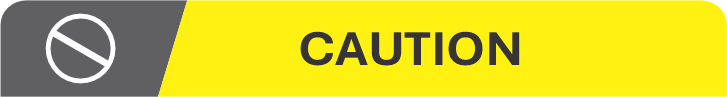
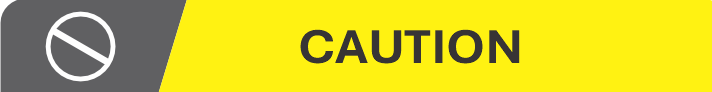
changes

diff --git a/index.html b/index.html
@@ -392,7 +392,7 @@
                   </div>
                 </div>
                 <div class="card warning">
-                  <div class="card-header">
+                  <div class="card-header card-warning">
                     <img src="images/warning.png" alt="warning" />
                   </div>
                   <div class="card-body">
@@ -457,32 +457,32 @@
         </div>
         <div class="mg-shield">
           <div class="row">
-            <div class="col">
+            <div class="col rsa-field">
               <img src="images/rsa.png" alt="rsa" />
             </div>
-            <div class="col">
+            <div class="col rsa-field">
               <img src="images/mg-shield.png" alt="MG Shield" />
             </div>
-            <div class="col">
+            <div class="col rsa-field">
               <img src="images/pulse-hub.png" alt="pulse hub" />
             </div>
           </div>
-          <div class="row">
-            <div class="col">
+          <div class="row ">
+            <div class="col rsa-field">
               <img src="images/quick-service.png" alt="Quick Service" />
             </div>
-            <div class="col">
+            <div class="col rsa-field">
               <img src="images/online-service.png" alt="Online Service" />
             </div>
-            <div class="col">
+            <div class="col rsa-field">
               <img src="images/body-paint.png" alt="body paint" />
             </div>
           </div>
           <div class="row">
-            <div class="col">
+            <div class="col rsa-field">
               <img src="images/diagnostic-expert.png" alt="diagnostic expert" />
             </div>
-            <div class="col">
+            <div class="col rsa-field">
               <img src="images/quality-service.png" alt="quality service" />
             </div>
           </div>
@@ -583,7 +583,7 @@
                 </div>
                 <div class="card-notice-containor">
                   <div class="card warning">
-                    <div class="card-header">
+                    <div class="card-header card-warning">
                       <img src="images/warning.png" alt="warning" />
                     </div>
                     <div class="card-body">
@@ -704,7 +704,7 @@
                     </div>
                   </div>
                   <div class="card warning">
-                    <div class="card-header">
+                    <div class="card-header card-warning">
                       <img src="images/warning.png" alt="warning" />
                     </div>
                     <div class="card-body">
@@ -805,7 +805,7 @@
                   <div class="card-body">Adjusting the seats so that you aresitting in a safe and comfortableposition plays an important role forthe safety of the driver andpassengers, as much as seat beltsand air bags when in an accident.</div>
                 </div>
                 <div class="card warning">
-                  <div class="card-header">
+                  <div class="card-header card-warning">
                     <img src="images/warning.png" alt="warning" />
                   </div>
                   <div class="card-body"> Do not use a cushion that reduces friction between the seat and the passenger. The passenger's hips may slide under the lap portion of the seat belt during an accident or a sudden stop. Serious or fatal internal injuries could result because the seat belt cannot operate properly.</div>
@@ -837,7 +837,7 @@
               </span>
               <div class="card-custom">
                 <div class="card warning">
-                  <div class="card-header">
+                  <div class="card-header card-warning">
                     <img src="images/warning.png" alt="warning" />
                   </div>
                   <div class="card-body x-p-8-0">When adjusting your seat, follow these precautions:
@@ -854,7 +854,7 @@
               </div>
               <div class="card-custom">
                 <div class="caution">
-                  <div class="card-img">
+                  <div class="card-img card-caution card-header">
                     <img src="images/caution.png" class="caution-img" alt="caution" />
                   </div>
                   <div class="card-body"> <ul><li>Don't try to adjust your seat while you're wearing your seat belt. Moving the seat cushion forward could put strong pressure on your stomach.</li>
@@ -909,13 +909,13 @@
                 </div>
                 <div class="card-notice-containor">
                   <div class="card warning">
-                    <div class="card-header">
+                    <div class="card-header card-warning">
                       <img src="images/warning.png" alt="warning">
                     </div>
                     <div class="card-body"> The backrest plays an important protection role when the vehicle is running. Unlocked backrest may cause severe personal injuries in case of sudden braking or a collision. Any time after adjusting the seat backrest, shake the backrest to check whether it is locked even though no passenger occupies the seat.</div>
                   </div>
                   <div class="card warning">
-                    <div class="card-header">
+                    <div class="card-header card-warning">
                       <img src="images/warning.png" alt="warning">
                     </div>
                     <div class="card-body"><p><strong>Reclining the seatback:</strong> Sitting in a reclined position while the vehicle is moving can be dangerous. Even if you're wearing your seat belt, reclining the seatback reduces the eectiveness of your seat belt and airbags.</p>
@@ -954,7 +954,7 @@
                 </div>
                 <div class="card-notice-containor">
                   <div class="card warning">
-                    <div class="card-header">
+                    <div class="card-header card-warning">
                       <img src="images/warning.png" alt="warning">
                     </div>
                     <div class="card-body"><p>Do not put any article or luggage higher than the rear seat on the seat. No one is allowed to sit on a seat with backrest folded when the vehicle is running.</p><p>The area for passenger is separated from the area for luggage. In an emergency brake or other accident, the unfixed luggage or the passenger sitting on a seat with backrest folded may be thrown out from the vehicle. This may result in serious personal injury or even death.</p><p>Ensure that each seat is locked before driving.</p><p>Do not operate the seat release handle when the vehicle is running. Otherwise, the passenger may be injured.</p></div>
@@ -980,7 +980,7 @@
                 <div class="x-p-8-0">The front and rear seats of the vehicle have headrests that can be adjusted.</div>
                 <div class="card-notice-containor">
                   <div class="card warning">
-                    <div class="card-header">
+                    <div class="card-header card-warning">
                       <img src="images/warning.png" alt="warning">
                     </div>
                     <div class="card-body">These headrests are not just for comfort; they are also meant to protect passengers from neck and spine injuries like whiplash during accidents, especially if the vehicle is hit from behind.</div>
@@ -1017,7 +1017,7 @@
                     </div>
                   </div>
                   <div class="card warning">
-                    <div class="card-header">
+                    <div class="card-header card-warning">
                       <img src="images/warning.png" alt="warning" />
                     </div>
                     <div class="card-body">
@@ -1054,7 +1054,7 @@
                 </div>
                 <div class="card-notice-containor">
                   <div class="card warning">
-                    <div class="card-header">
+                    <div class="card-header card-warning">
                       <img src="images/warning.png" alt="warning" />
                     </div>
                     <div class="card-body"> The crotch belt shall be placed as low as possible to go across the hip, so as to avoid force on the belly.
@@ -1081,6 +1081,21 @@
                     <li> The size and configuration range of the child seat is very wide. Not all child seats are applicable to your vehicle due to the interior trim as well as the seat shape and size. You have responsibility to ensure that the child seat installed matches with your vehicle and that the seat can be connected correctly to the vehicle with its anchor system. If the child seat does not match with your vehicle size and the child body figure or the connection to your vehicle is incorrect, severe personal injuries will be caused to the child and other passengers in the vehicle in case of a collision.</li></ol>
                     </div>
                   </div>
+                </div>
+              </span>
+              <span class="x-procbody-1-0">
+                <div class="x-p-8-0">
+                  <img src="images/seat-balt.jpg" class="inner-img" alt="seat balt">
+                </div>
+                <div class="x-p-8-0"><strong>a. Types of child restraint system</strong><p>According to GB27887-2011, the child restraint system can be classified into 5 groups below:</p>
+                  <ul>
+                    <li><strong>Group 0: </strong>for children weighing less than 10 kg</li>
+                    <li><strong>Group 0+: </strong>for children weighing less than 13 kg.</li>
+                    <li><strong>Group I: </strong>for child weighting more than 9 kg and less than 18 kg.</li>
+                    <li><strong>Group II: </strong>for child weighting more than 15 kg and less than 25 kg.</li>
+                    <li><strong>Group III: </strong>for child weighting more than 22 kg and less than 36 kg. Please select a suitable child seat according to the child weight and body figure.</li>
+                  </ul>
+                  <p>For infants under one year old, their bones are very fragile, and a backward-facing child seat shall be used.</p>
                 </div>
               </span>
             </div>

diff --git a/css/mg-motor.css b/css/mg-motor.css
@@ -99,11 +99,11 @@ h1,h2,h3,h4,h5,h6,p,span,div{
 
 
 .card-notice-containor {
-  display: flex;
+  display: block;
   margin-top: 25px;
 }
 .card-custom {
-  display: flex;
+  display: block;
   margin-top: 25px;
 }
   
@@ -113,16 +113,15 @@ h1,h2,h3,h4,h5,h6,p,span,div{
   border: 1px solid #ddd;
   border-radius: 5px;
   margin-right: 30px;
-  width: 50%;
+}
+.card-warning{
+  background-color: #f58634;
 }
 .card-custom .card-header {
   align-items: center;
   margin-bottom: 10px;
 }
-.card-custom .card-header img{
-    width: 100%;
-    max-width: 500px;
-}
+
 
 .card-custom .card-body{
   padding: 10px;
@@ -137,7 +136,6 @@ h1,h2,h3,h4,h5,h6,p,span,div{
 }
 
 .card-notice-containor .card {
-  width: 300px;
   margin-bottom: 20px;
   padding: 0px;
   border: 1px solid #ddd;
@@ -176,16 +174,12 @@ h1,h2,h3,h4,h5,h6,p,span,div{
     background-color: #00a6ff;
   }
   
-  .card-notice-containor .warning .card-header {
-    background-color: #ff9933;
-  }
-  
   .card-notice-containor .caution .card-header {
-    background-color: #ffff00;
+    background-color: #fff212;
   }
   
   .card-notice-containor .danger .card-header {
-    background-color: #ff0000;
+    background-color: #ed3237;
   }
 
   .topic-containor {
@@ -282,10 +276,22 @@ i {
     padding: 10px;
     margin: 10px;
 }
-.card-img .caution-img{
-  width: 100%;
-}
+
 .seat-cover{
   margin: 20px;
   padding: 20px;
+}
+.card-caution{
+  background-color: #fff212;
+}
+
+@media(max-width: 767px){
+  .row{
+    display: block;
+    text-align: center;
+  }
+  
+  .rsa-field{
+    padding: 20px;
+  }
 }
